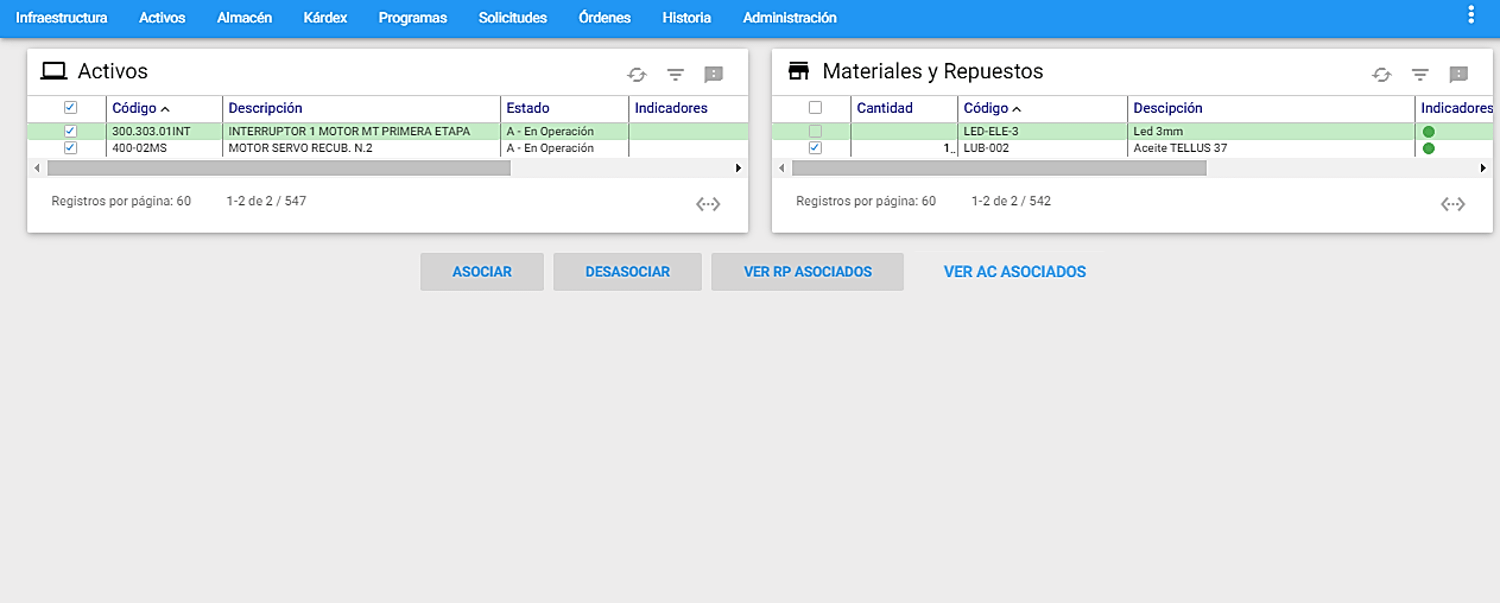
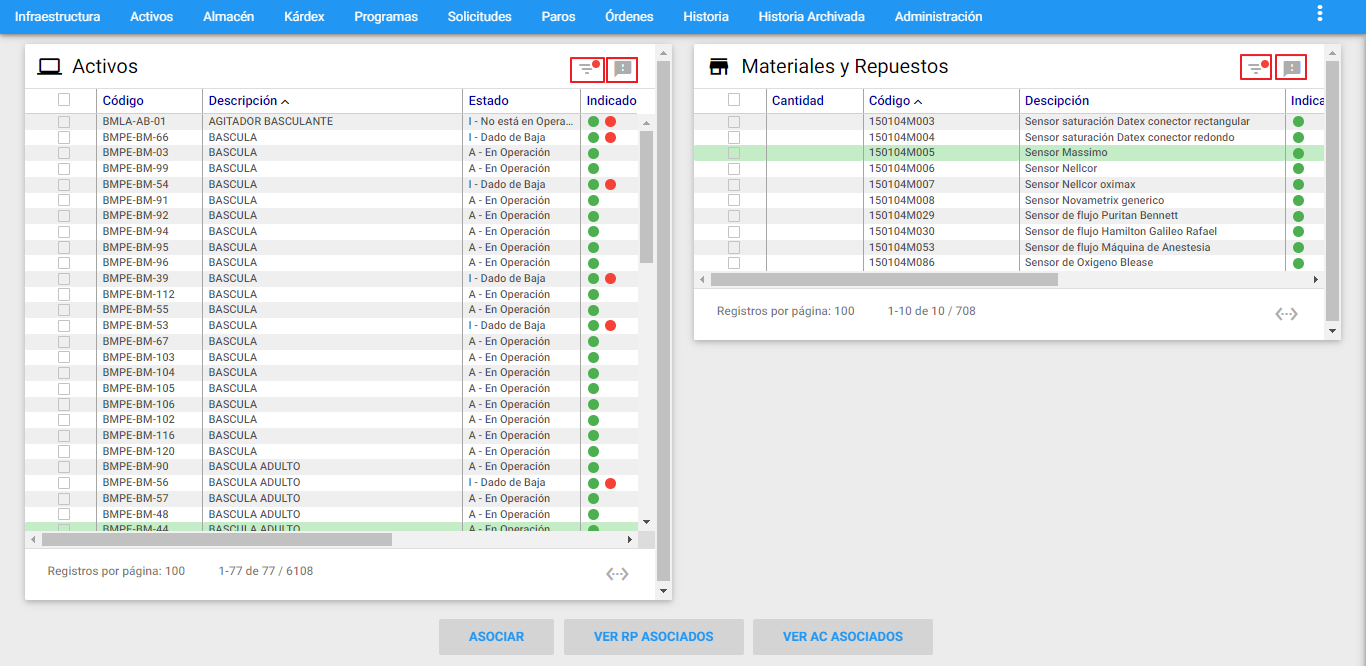
actualización RP

Changed region(s): [[0.0, 0.0, 1.0, 1.0], [0.0307, 0.8955, 0.5227, 0.9851], [0.5842, 0.9254, 0.6764, 0.9851]]

diff --git a/_docs/04_04_main_window.md b/_docs/04_04_main_window.md
@@ -276,7 +276,7 @@ _**Imagen 21.** Almacén - Subgrupo Materiales y Repuestos_
 **Estado:** Permite seleccionar el Estado de los Repuestos, es posible registrar el estado  de Activo, Vencido, Excedente, Obsoleto o Inservible para el Repuesto activo.
 
 **Proveedor 1:** Lista los Repuestos por el Proveedor seleccionado. La búsqueda se realiza sobre los 3 campos de Proveedor asociado al Repuesto **(Proveedor 1, 2, 3)**. Este campo despliega la lista de los Terceros Tipo PF de la tabla de Infraestructura. En este campo es posible usar comodines (%). Para introducir un nombre en campo manualmente se debe dar clic en el icono <span class="mdi mdi-lock"></span> el cual se habilita <span class="mdi mdi-lock-open-outline"></span> para permitir el ingreso del dato: por ejemplo FER% y el sistema selecciona todos los Proveedores cuyo nombre empieza por FER. Si se escribe %IA% se seleccionan todos los Proveedores en cuyo nombre, en cualquier posición, tengan la palabra **“IA”**.  
- 
+ 
 **Referencia Proveedor 1:** A través de esta opción es posible digitar el nombre de la referencia del Repuesto, seleccionar los Repuestos que  tienen como referencia proveedor 1. Este campo permite el uso de comodines(%) por ejemplo: %BR1%, BR1%.
 
 **Referencia Proveedor 2:** Este criterio permite realizar consultas por la segunda referencia establecida perteneciente al segundo proveedor. Permite el uso de comodines (%), por ejemplo: %BR1%, BR1%.**
@@ -293,13 +293,18 @@ _**Imagen 21.** Almacén - Subgrupo Materiales y Repuestos_
 
 ### Asociar con Activos
 
-El comando Asociar  a  Equipos del submenú Repuestos permite asociar un  Repuesto con el o los Equipos a los que sirve. Esta asociación es opcional, pero es muy útil en caso de necesitar ubicar con facilidad aquellos Repuestos específicos que solo sirven a Equipos específicos.
+El comando Asociar a Activos del submenú Repuestos permite asociar un  Repuesto con el o los Activos a los que sirve. Esta asociación es opcional, pero es muy útil en caso de necesitar ubicar con facilidad aquellos Repuestos específicos que solo sirven a Activos específicos.
 
-![ detalle de materiales y repuestos ](../../assets/images/cap04/chp04_img16.png)
 
-A esta opción se llega al sobreponer el cursor del mouse sobre un almacén y al lado derecho se despliega el conjunto de transacciones disponibles para ese almacén, luego se elige la transacción ** “Asociar con Activos”**. Al lado izquierdo es posible visualizar el conjunto de Activos y al lado derecho se visualiza los Repuestos existentes en el almacén seleccionado previamente. Para navegar entre las páginas se debe dar clic al icono ubicado en la parte inferior derecha de cada recuadro.
+Para acceder a esta opción se debe contar con los permisos de Repuestos, y a continuación se sobrepone el cursor sobre el Almacén en cuestión, el cual despliega al lado derecho el conjunto de transacciones disponibles para ese Almacén, luego se elige la transacción **Asociar con Activos**, como se indica a continuación:
 
-![ detalle de materiales y repuestos ](../../assets/images/cap04/chp04_img17.png)
+![Procesar imagen](https://ayuda.winsoftware.com.co/assets/images/cap04/chp04_img22.png)
+_**Imagen 22.** Almacén - Ir a Asociar con Activos_
+
+Al ingresar, en el lado izquierdo se visualizan los Activos y en el derecho los Repuestos existentes en el almacén seleccionado previamente. Para navegar entre las páginas se debe dar clic al icono <span class="mdi mdi-unfold-more-vertical"></span> ubicado en la parte inferior derecha de cada recuadro:
+
+![Procesar imagen](https://ayuda.winsoftware.com.co/assets/images/cap04/chp04_img23.png)
+_**Imagen 23.** Almacén - Desplazarse en Asociar con Activos_
 
 La asociación de los Repuestos con los Activos, inicia al dar clic a los **check box**, que están al lado izquierdo en la primera columna de la porción de Activos y se puede seleccionar uno o  varios, luego se elige uno o varios Repuestos dando clic a los **check box** que serán asociados a los Activos seleccionados y se asigna la cantidad para cada Repuesto, **AM** asigna por defecto la cantidad 1, como se muestra a continuación:
 
